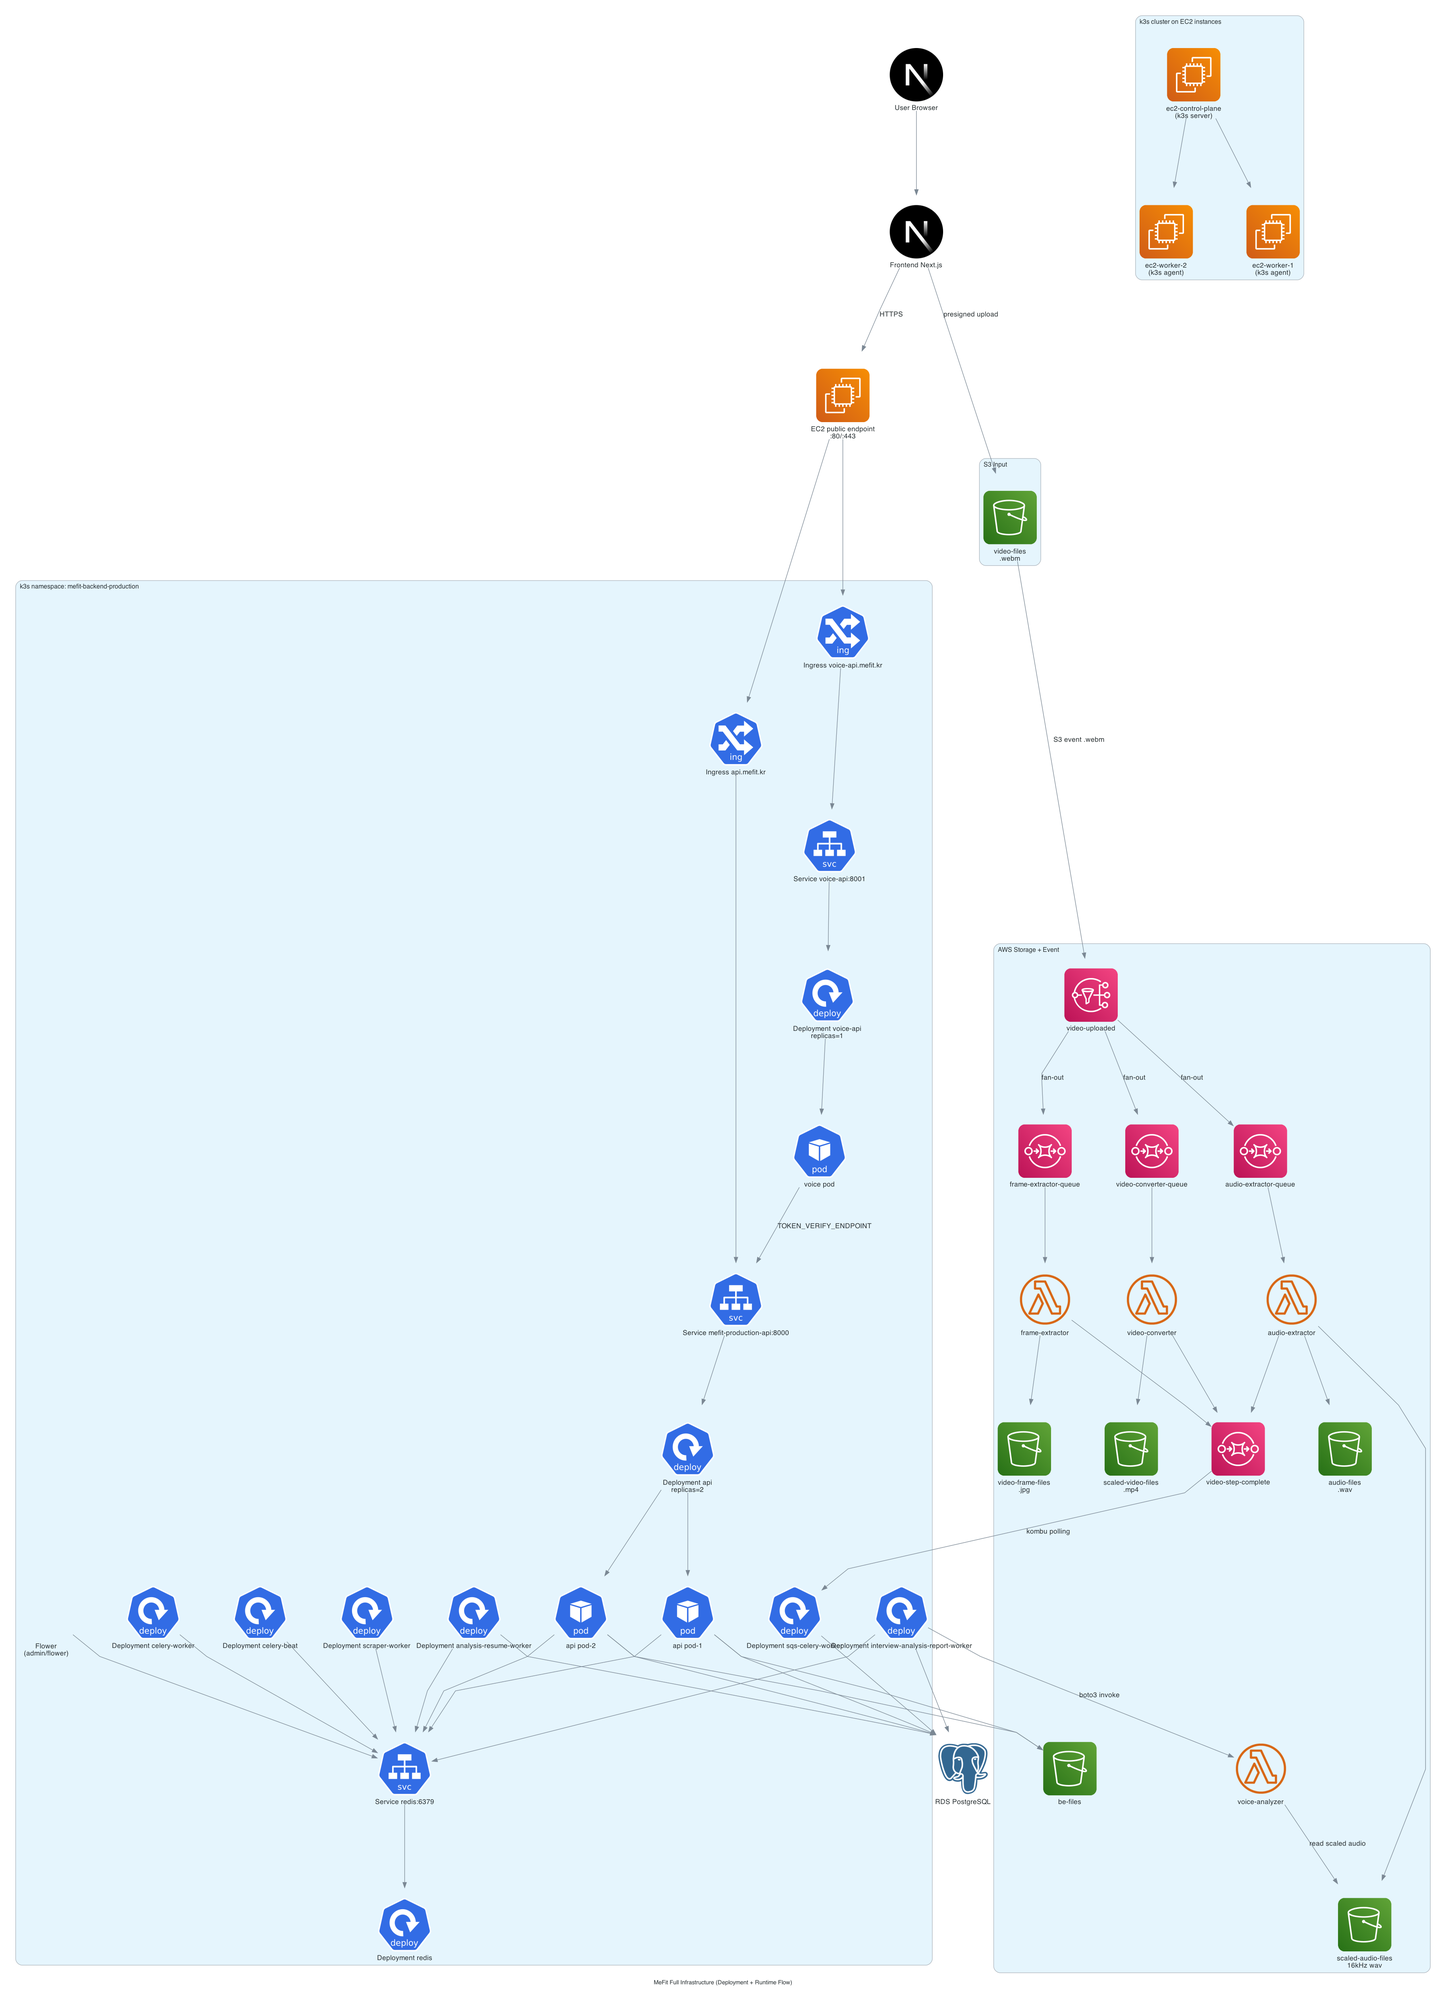
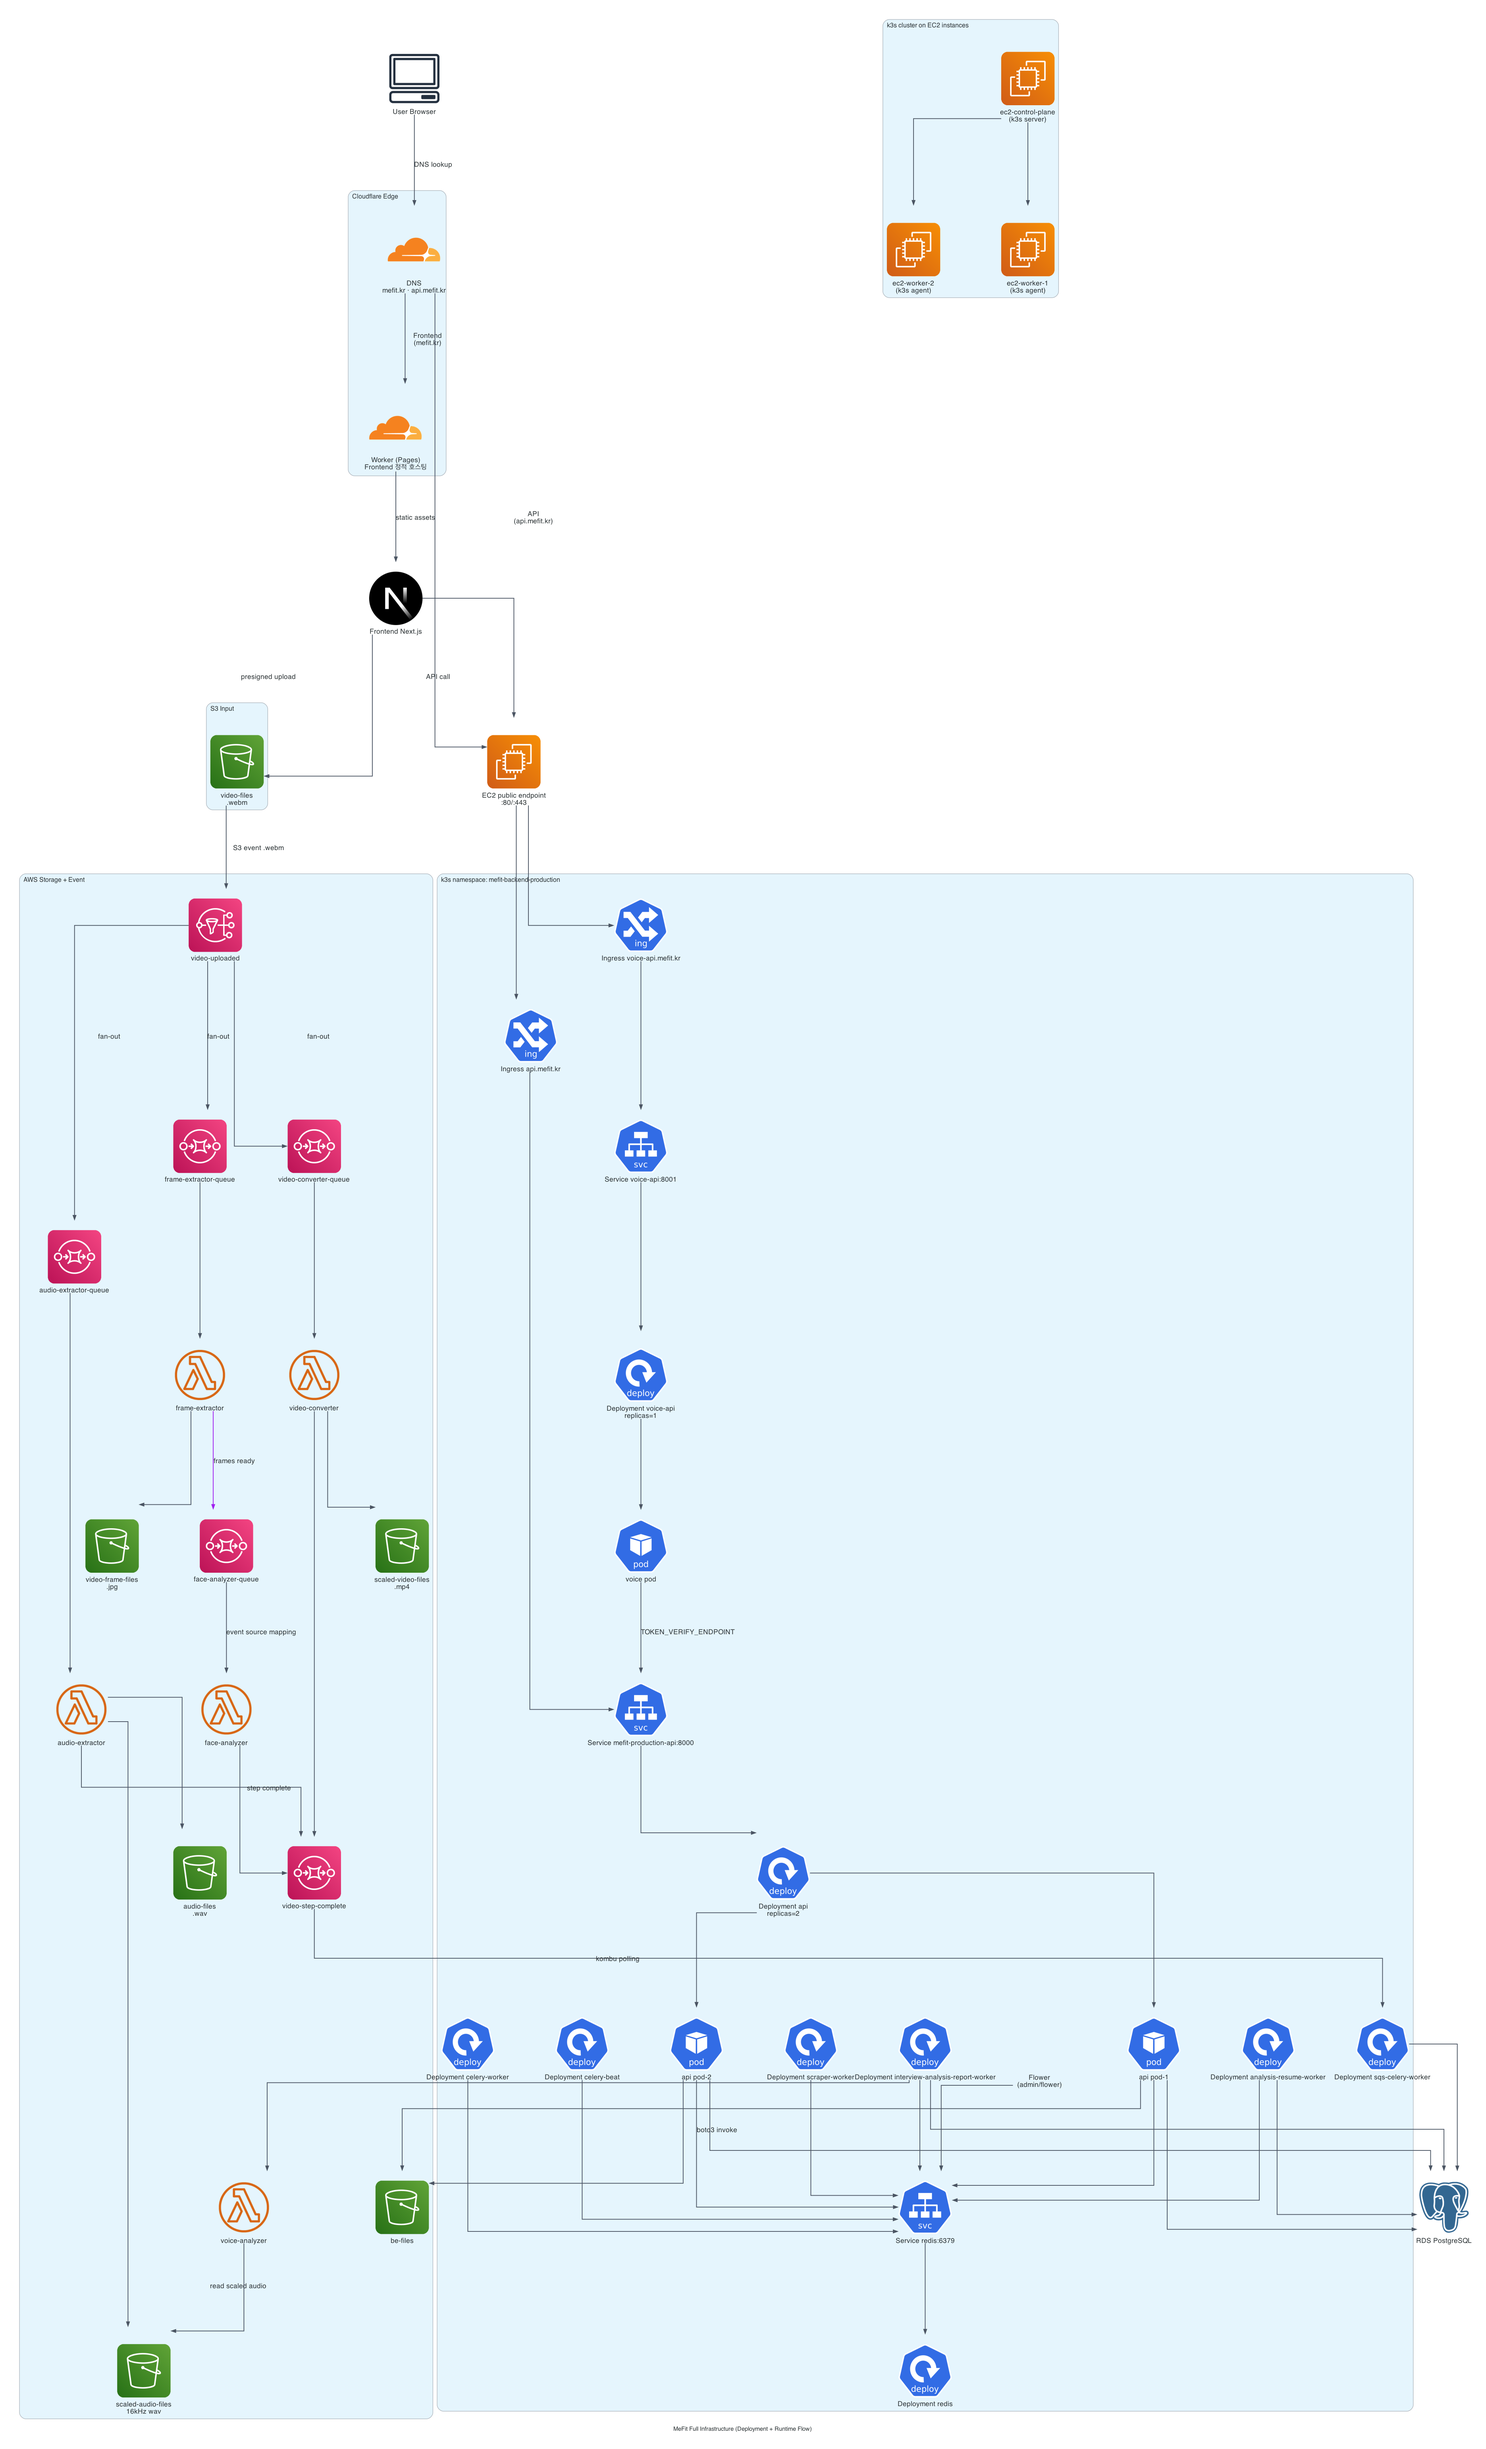
chore: 인프라 구조 최신화

diff --git a/mefit-diagrams/main.py b/mefit-diagrams/main.py
@@ -9,20 +9,67 @@ from diagrams.aws.compute import LambdaFunction
 from diagrams.custom import Custom
 from diagrams.k8s.compute import Deploy, Pod
 from diagrams.k8s.network import Ing, SVC
+from diagrams.onprem.client import Client
 from diagrams.onprem.database import Postgresql
 from diagrams.programming.framework import Django, Nextjs
+from diagrams.saas.cdn import Cloudflare
 
 
 FLOWER_ICON = "flower.png"
 
 BASE_GRAPH_ATTR = {
-    "splines": "polyline",
-    "nodesep": "1.4",
-    "ranksep": "1.8",
-    "pad": "0.3",
+    "splines": "ortho",
+    "nodesep": "1.6",
+    "ranksep": "2.0",
+    "pad": "0.4",
     "fontsize": "11",
     "overlap": "false",
     "newrank": "true",
+    "concentrate": "true",
+}
+
+EDGE_DEFAULT = {
+    "color": "#4B5563",
+    "fontsize": "10",
+    "fontname": "Helvetica",
+    "penwidth": "1.4",
+    "arrowsize": "0.8",
+}
+
+EDGE_FANOUT = {
+    "color": "#0E7490",
+    "penwidth": "1.6",
+    "arrowsize": "0.85",
+    "fontsize": "10",
+}
+
+EDGE_LAMBDA = {
+    "color": "#D97706",
+    "penwidth": "1.5",
+    "arrowsize": "0.8",
+    "fontsize": "10",
+}
+
+EDGE_STEP = {
+    "color": "#0991B2",
+    "penwidth": "1.8",
+    "arrowsize": "0.9",
+    "fontsize": "10",
+}
+
+EDGE_DLQ = {
+    "color": "#DC2626",
+    "style": "dashed",
+    "penwidth": "1.2",
+    "arrowsize": "0.7",
+    "fontsize": "9",
+}
+
+EDGE_FACE = {
+    "color": "#7C3AED",
+    "penwidth": "1.6",
+    "arrowsize": "0.85",
+    "fontsize": "10",
 }
 
 
@@ -63,6 +110,10 @@ def aws_diagram():
             sqs_audio = SQS("audio-extractor-queue")
             sqs_audio_dlq = SQS("audio-extractor-queue-dlq")
 
+        with Cluster("Downstream Queues"):
+            sqs_face = SQS("face-analyzer-queue")
+            sqs_face_dlq = SQS("face-analyzer-queue-dlq")
+
         with Cluster("Completion Queue"):
             sqs_step = SQS("video-step-complete")
             sqs_step_dlq = SQS("video-step-complete-dlq")
@@ -71,6 +122,7 @@ def aws_diagram():
             lb_converter = LambdaFunction("video-converter")
             lb_frame = LambdaFunction("frame-extractor")
             lb_audio = LambdaFunction("audio-extractor")
+            lb_face = LambdaFunction("face-analyzer")
             LambdaFunction("voice-analyzer\n(on-demand invoke)")
 
         celery_sqs_worker = Django(
@@ -97,8 +149,11 @@ def aws_diagram():
         lb_audio >> Edge(label="16kHz mono wav") >> s3_scaled_audio
 
         lb_converter >> Edge(label="step complete", color="darkblue") >> sqs_step
-        lb_frame >> Edge(label="step complete", color="darkblue") >> sqs_step
         lb_audio >> Edge(label="step complete", color="darkblue") >> sqs_step
+
+        lb_frame >> Edge(label="frames ready", color="purple") >> sqs_face
+        sqs_face >> Edge(label="event source mapping") >> lb_face
+        lb_face >> Edge(label="step complete", color="darkblue") >> sqs_step
 
         (
             sqs_step
@@ -120,6 +175,11 @@ def aws_diagram():
             sqs_audio
             >> Edge(label="redrive", style="dashed", color="firebrick")
             >> sqs_audio_dlq
+        )
+        (
+            sqs_face
+            >> Edge(label="redrive", style="dashed", color="firebrick")
+            >> sqs_face_dlq
         )
         (
             sqs_step
@@ -259,8 +319,12 @@ def combined_diagram():
         show=False,
         direction="TB",
         graph_attr=BASE_GRAPH_ATTR,
+        edge_attr=EDGE_DEFAULT,
     ):
-        user = Nextjs("User Browser")
+        user = Client("User Browser")
+        with Cluster("Cloudflare Edge"):
+            cf_dns = Cloudflare("DNS\nmefit.kr · api.mefit.kr")
+            cf_worker = Cloudflare("Worker (Pages)\nFrontend 정적 호스팅")
         frontend = Nextjs("Frontend Next.js")
 
         ec2_edge = EC2("EC2 public endpoint\n:80/:443")
@@ -285,11 +349,13 @@ def combined_diagram():
             sqs_converter = SQS("video-converter-queue")
             sqs_frame = SQS("frame-extractor-queue")
             sqs_audio = SQS("audio-extractor-queue")
+            sqs_face = SQS("face-analyzer-queue")
             sqs_step = SQS("video-step-complete")
 
             lb_converter = LambdaFunction("video-converter")
             lb_frame = LambdaFunction("frame-extractor")
             lb_audio = LambdaFunction("audio-extractor")
+            lb_face = LambdaFunction("face-analyzer")
             lb_voice = LambdaFunction("voice-analyzer")
 
         with Cluster("k3s namespace: mefit-backend-production"):
@@ -318,9 +384,12 @@ def combined_diagram():
             flower = Custom("Flower\n(admin/flower)", FLOWER_ICON)
 
         rds = Postgresql("RDS PostgreSQL")
-        user >> frontend
+        user >> Edge(label="DNS lookup") >> cf_dns
+        cf_dns >> Edge(label="Frontend\n(mefit.kr)") >> cf_worker
+        cf_worker >> Edge(label="static assets") >> frontend
+        cf_dns >> Edge(label="API\n(api.mefit.kr)") >> ec2_edge
         frontend >> Edge(label="presigned upload") >> s3_video
-        frontend >> Edge(label="HTTPS") >> ec2_edge
+        frontend >> Edge(label="API call") >> ec2_edge
         cp_node >> wk_node_1
         cp_node >> wk_node_2
         ec2_edge >> web_ing
@@ -346,8 +415,11 @@ def combined_diagram():
         lb_audio >> s3_scaled_audio
 
         lb_converter >> sqs_step
-        lb_frame >> sqs_step
         lb_audio >> sqs_step
+
+        lb_frame >> Edge(label="frames ready", color="purple") >> sqs_face
+        sqs_face >> Edge(label="event source mapping") >> lb_face
+        lb_face >> Edge(label="step complete") >> sqs_step
 
         sqs_step >> Edge(label="kombu polling") >> sqs_worker
 
